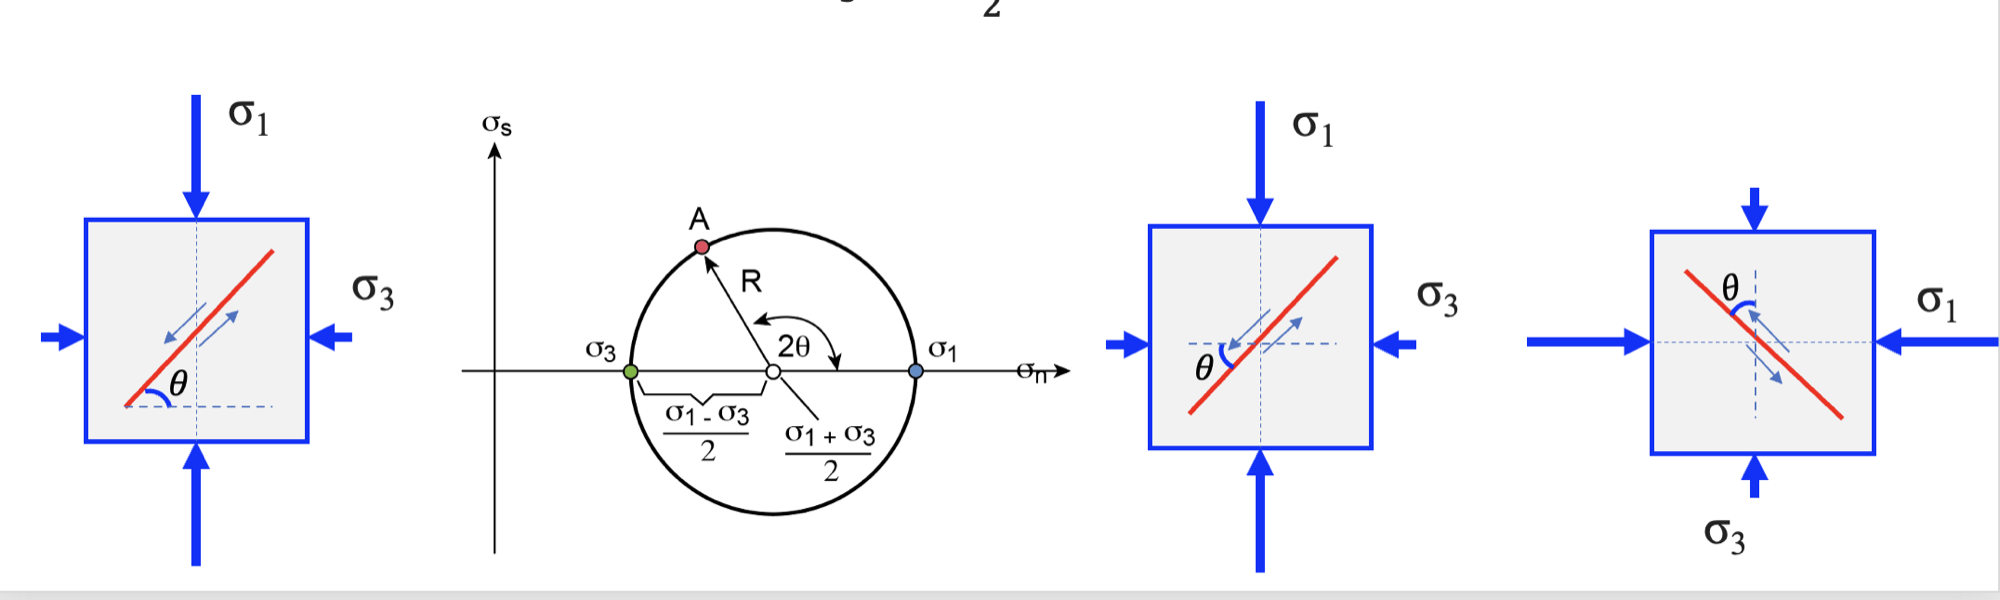
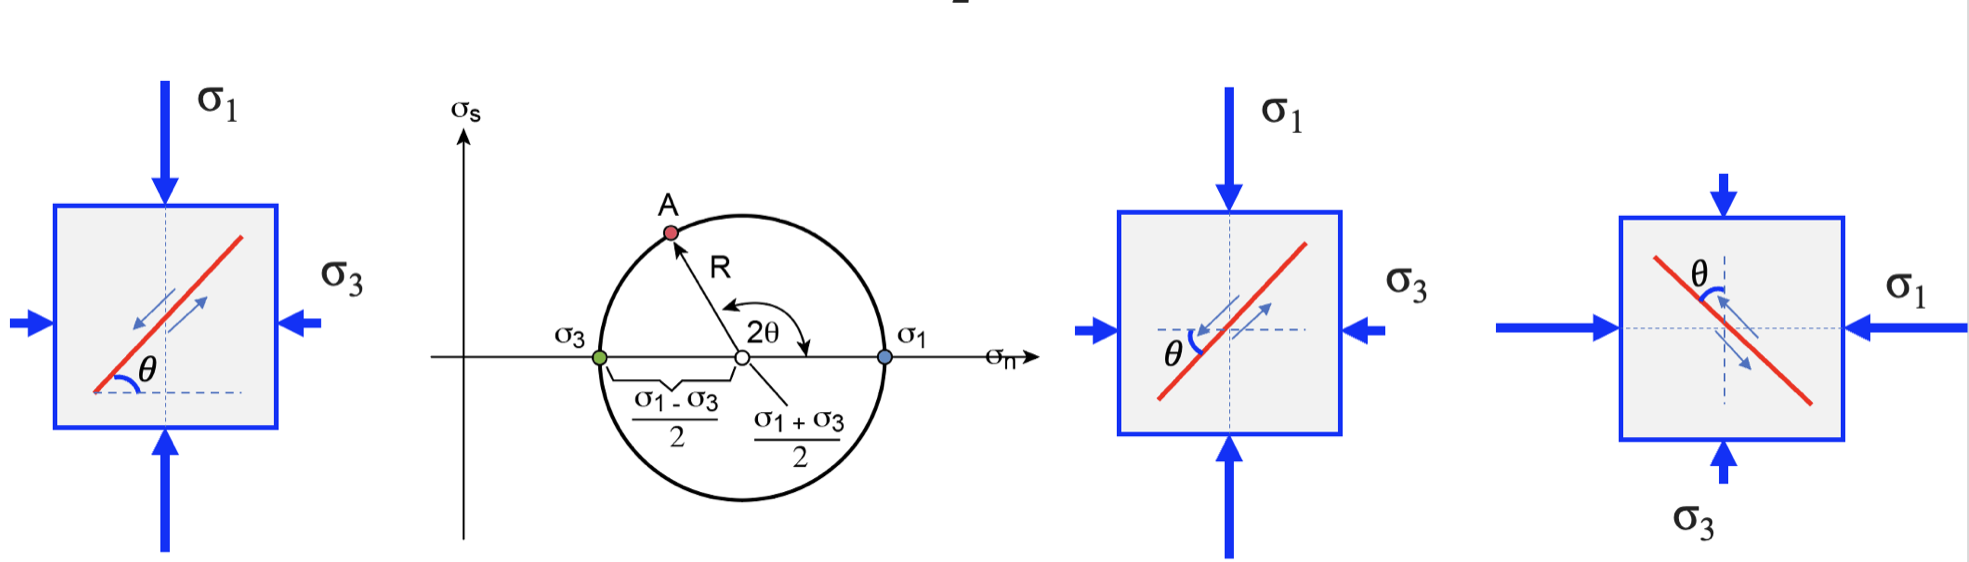
Updating slides

diff --git a/Lectures/Module-iii-lecture1-Theory-draft.reveal.md b/Lectures/Module-iii-lecture1-Theory-draft.reveal.md
@@ -232,8 +232,7 @@ Stress = = G/A = $\rho z g$ = 2.7 $\times 10^3 \times 9.8 \times 1000 \approx$ 2
 <div class="cols">
 <div class="wide">
 
-We need three orthogonal surfaces to describe a complete state of force at any point (for a continuous medium).
-- The complete stress state is described by three 3-component vectors ⇒ tensor.
+We need three orthogonal surfaces to describe a complete state of force at any point (for a continuous medium). The complete stress state is described by three 3-component vectors ⇒ tensor.
 
 $$
 \boldsymbol{\sigma} = \left[ \begin{matrix} \sigma_{xx} & \sigma_{xy} & \sigma_{xz} \cr \sigma_{yx} & \sigma_{yy} & \sigma_{yz} \cr \sigma_{zx} & \sigma_{zy} & \sigma_{zz} \end{matrix} \right] =\left[ \begin{matrix} \vec{T}_x \cr \vec{T}_y \cr \vec{T}_z \end{matrix} \right]
@@ -855,23 +854,31 @@ Let us see a real example to use this criteria to predict whether a fault plane 
 
 <!-- source: Lecture1_Stress.pptx slide 34 · template: T3-text-and-image -->
 ## Anderson’s Theory of Faulting (1905)
+<center>
 
 ![](Module-iii-Theory/Lecture1-extracted/slide034_img1.jpg) <!-- .element style="max-height:380px;" -->
 
+</center>
+
 <p class="caption">Fossen, 2010</p>
 
-- Assume no shear stress at the Earth’s surface, so one of the principal stresses must be vertical. This implies that the other two are horizontal ($\sigma_v = \sigma_1$: normal-fault regime; $\sigma_v = \sigma_2$: strike-slip fault regime; $\sigma_v = \sigma_3$: thrust-fault regime).
-- Assumptions: 1) coaxial deformational regimes (no rotation); 2) the deforming rocks must be isotropic.
-- Stereonets show fields of compression and tension.
+Assume no shear stress at the Earth’s surface, so one of the principal stresses must be vertical. This implies that the other two are horizontal ($\sigma_v = \sigma_1$: normal-fault regime; $\sigma_v = \sigma_2$: strike-slip fault regime; $\sigma_v = \sigma_3$: thrust-fault regime).
+
+Assumptions: 
+ 1. coaxial deformational regimes (no rotation); 
+ 2. the deforming rocks must be isotropic.
+
+ Stereonets show fields of compression and tension.
 
 Note:
-Since we are discussing the Mohr circle and the failing criteria, let’s revisit the Anderson’s theory of faulting, which describes the various stress condition with the focal mechanism. Louis brief touched on this topic in the first module. But now we may have a bit more background knowledge to understand it.
+Since we are discussing the Mohr circle and the failing criteria, let’s revisit Anderson’s theory of faulting, which describes the various stress condition with the focal mechanism. Louis brief touched on this topic in the first module. But now we may have a bit more background knowledge to understand it.
 
 <--o-->
 
 <!-- source: Lecture1_Stress.pptx slide 35 · template: T3-text-and-image -->
 ## Implication to Normal/reverse Faulting
 
+<center>
 <div class="cols">
 <div>
 
@@ -880,15 +887,18 @@ Since we are discussing the Mohr circle and the failing criteria, let’s revisi
 </div>
 <div>
 
-![](Module-iii-Theory/Lecture1-extracted/slide035_img2.jpg) <!-- .element style="max-height:400px;" -->
+![](Module-iii-Theory/Lecture1-extracted/slide035_img2.jpg) <!-- .element style="max-height:300px;" -->
 
 </div>
 </div>
+</center>
 
 <p class="caption">Fossen, 2011</p>
 
-- Based on the Coulomb-Mohr failure criteria, Anderson’s theory of faulting predicts a conjugate fault system for different stress conditions.
-- The theory also predicts that normal and reverse faults dip at about 60º and 30º, respectively. In other words, one can use the dipping angle to refer stress directions.
+Based on the Coulomb-Mohr failure criteria, Anderson’s theory of faulting predicts a conjugate fault system for different stress conditions.
+
+The theory also predicts that normal and reverse faults dip at *roughly* 60º and 30º, respectively. In other words, one can use the dipping angle to infer stress directions. 
+As long as you know the fault has not rotated since it formed !
 
 <--o-->
 
@@ -908,14 +918,15 @@ Since we are discussing the Mohr circle and the failing criteria, let’s revisi
 </div>
 <p class="caption">Fossen, 2010</p>
 
-Note:
+
 One of the principal stresses will always be perpendicular to the free surface of the Earth, because the shear stress is zero along any free surface. Thus, a non-planar surface causes the orientation of the stresses to rotate as shown on the figure. Note that these deviations occur near the surface only. 
-The structure is weaker than the surrounding rock and can support lower shear stresses than its surroundings. The situation is similar to that where an open surface exists, e.g. the free surface of the Earth
+
+The fault is weaker than the surrounding rock and can support lower shear stresses than its surroundings. The situation is similar to that where an open surface exists, e.g. the free surface of the Earth
 
 <--o-->
 
 <!-- source: Lecture1_Stress.pptx slide 37 · template: T3-text-and-image -->
-## Lithostatic and Hydrostaic Stress
+## Lithostatic and Hydrostatic Stress
 <div class="cols">
 <div class="wide">
 
